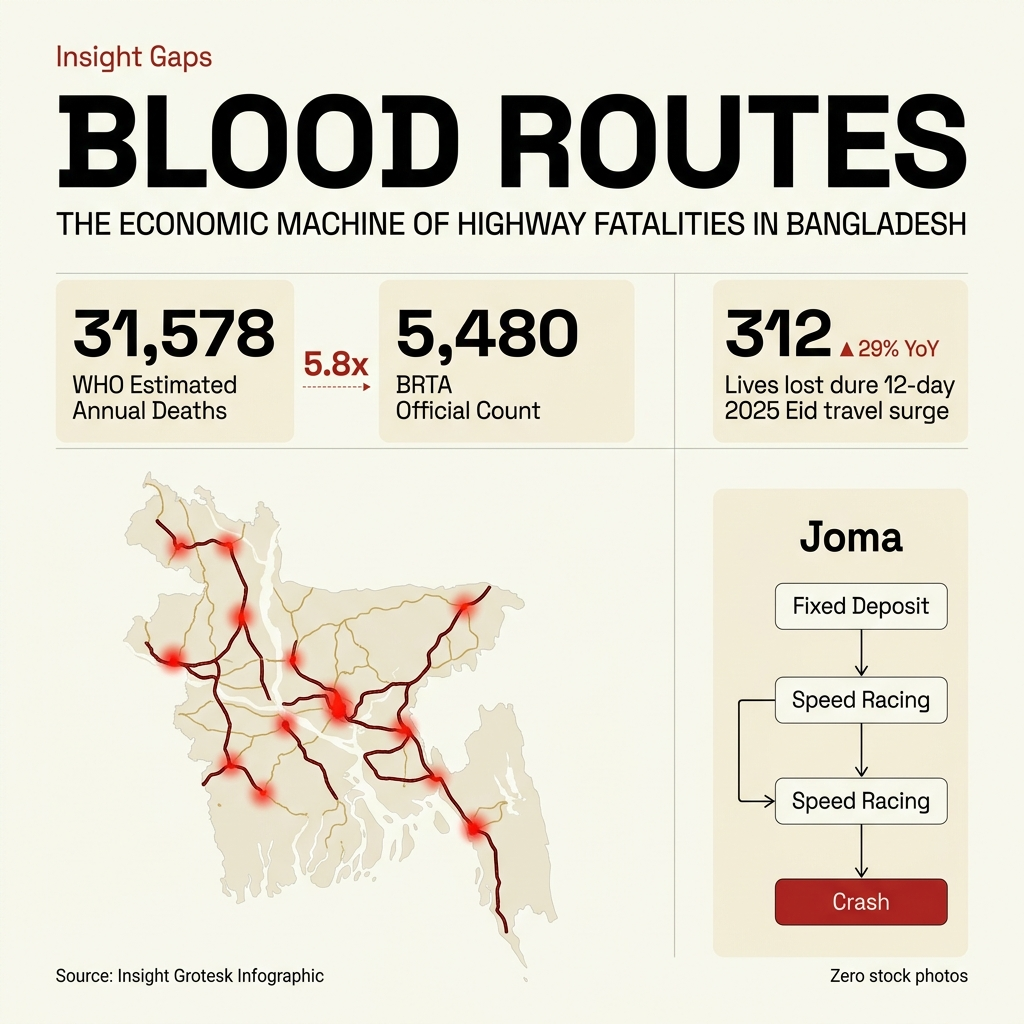
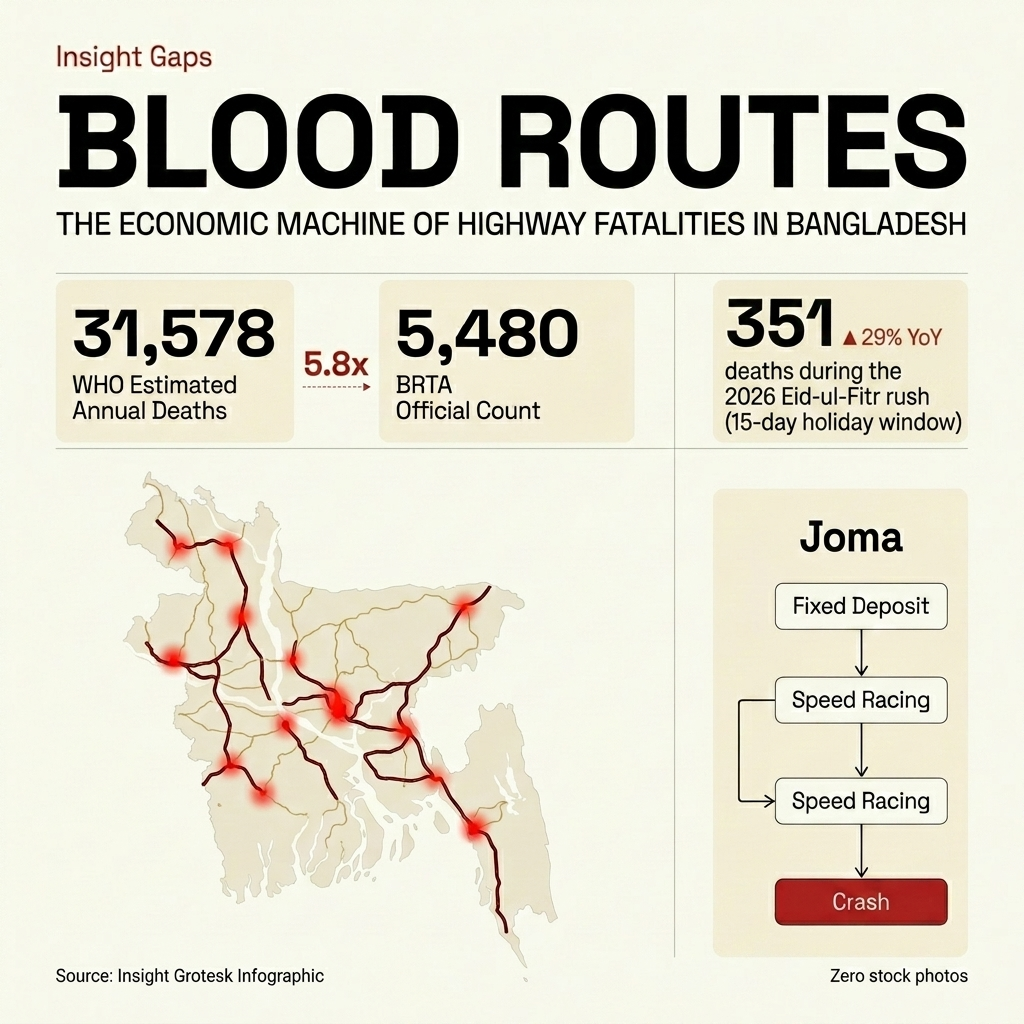
Update website homepage, page, and infographic to show 2026 Eid-ul-Fitr data

diff --git a/investigations/national/blood-routes/index.html b/investigations/national/blood-routes/index.html
@@ -856,10 +856,10 @@ html[data-theme="dark"] .sub-nav {
   <div class="hero-official">Official government figure (BRTA): <strong>5,480</strong></div>
   
   <div class="eid-surge-box">
-    <div class="eid-surge-title">⚠ Eid Travel Surge Focus (2025 Data)</div>
+    <div class="eid-surge-title">⚠ Eid Travel Surge Focus (2026 Data)</div>
     <div class="eid-surge-text">
-      During the 12-day <strong>Eid-ul-Adha holiday travel window in June 2025, 312 lives were lost</strong> on Bangladesh's roads, averaging 26 deaths per day. 
-      This represents a devastating <strong>29% year-on-year surge</strong> in holiday fatalities. 
+      During the 15-day <strong>Eid-ul-Fitr holiday travel window in March 2026, 351 lives were lost</strong> on Bangladesh's roads, averaging 23 deaths per day. 
+      This represents the latest documented peak of the holiday rush. 
       This is the output of a high-pressure commercial machine.
     </div>
   </div>
